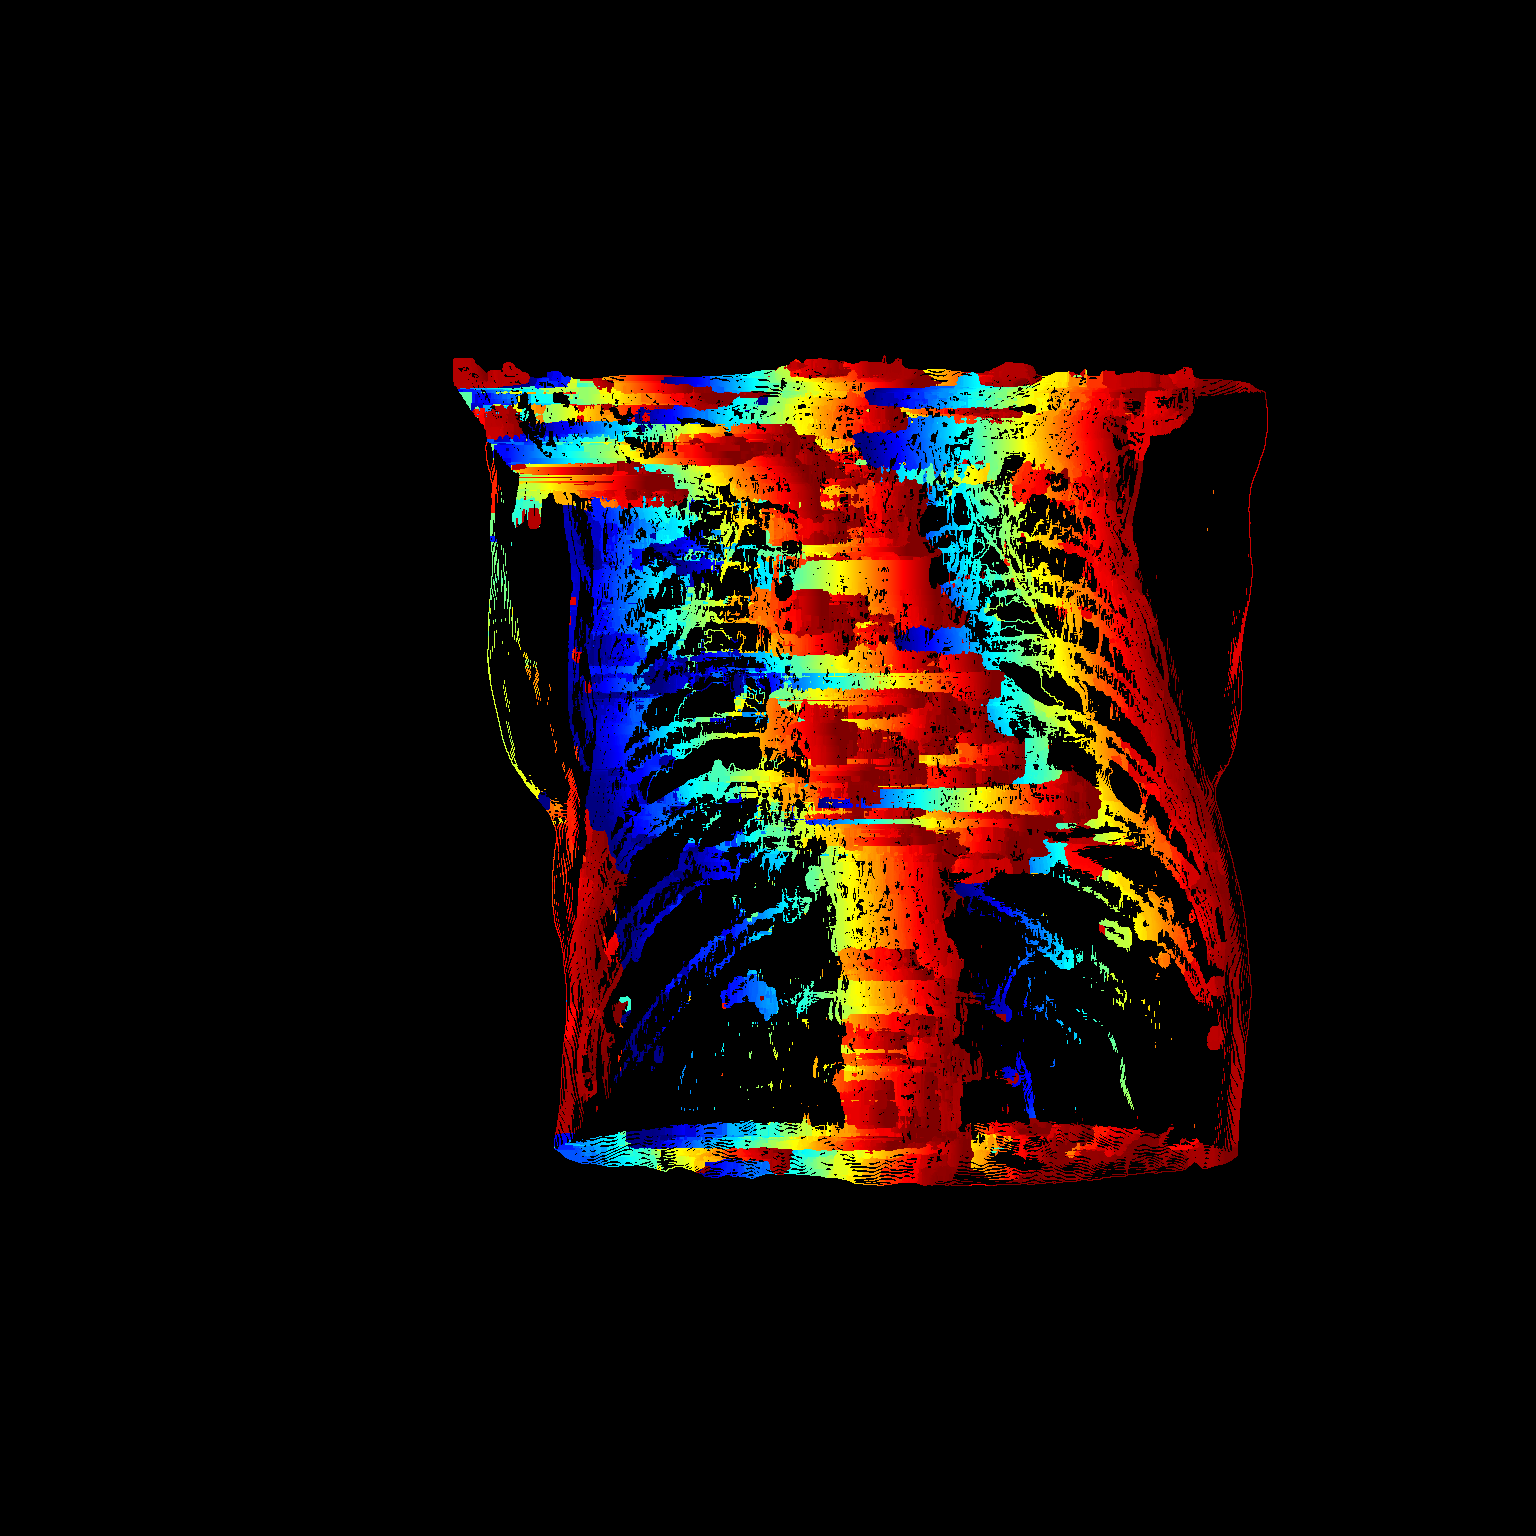
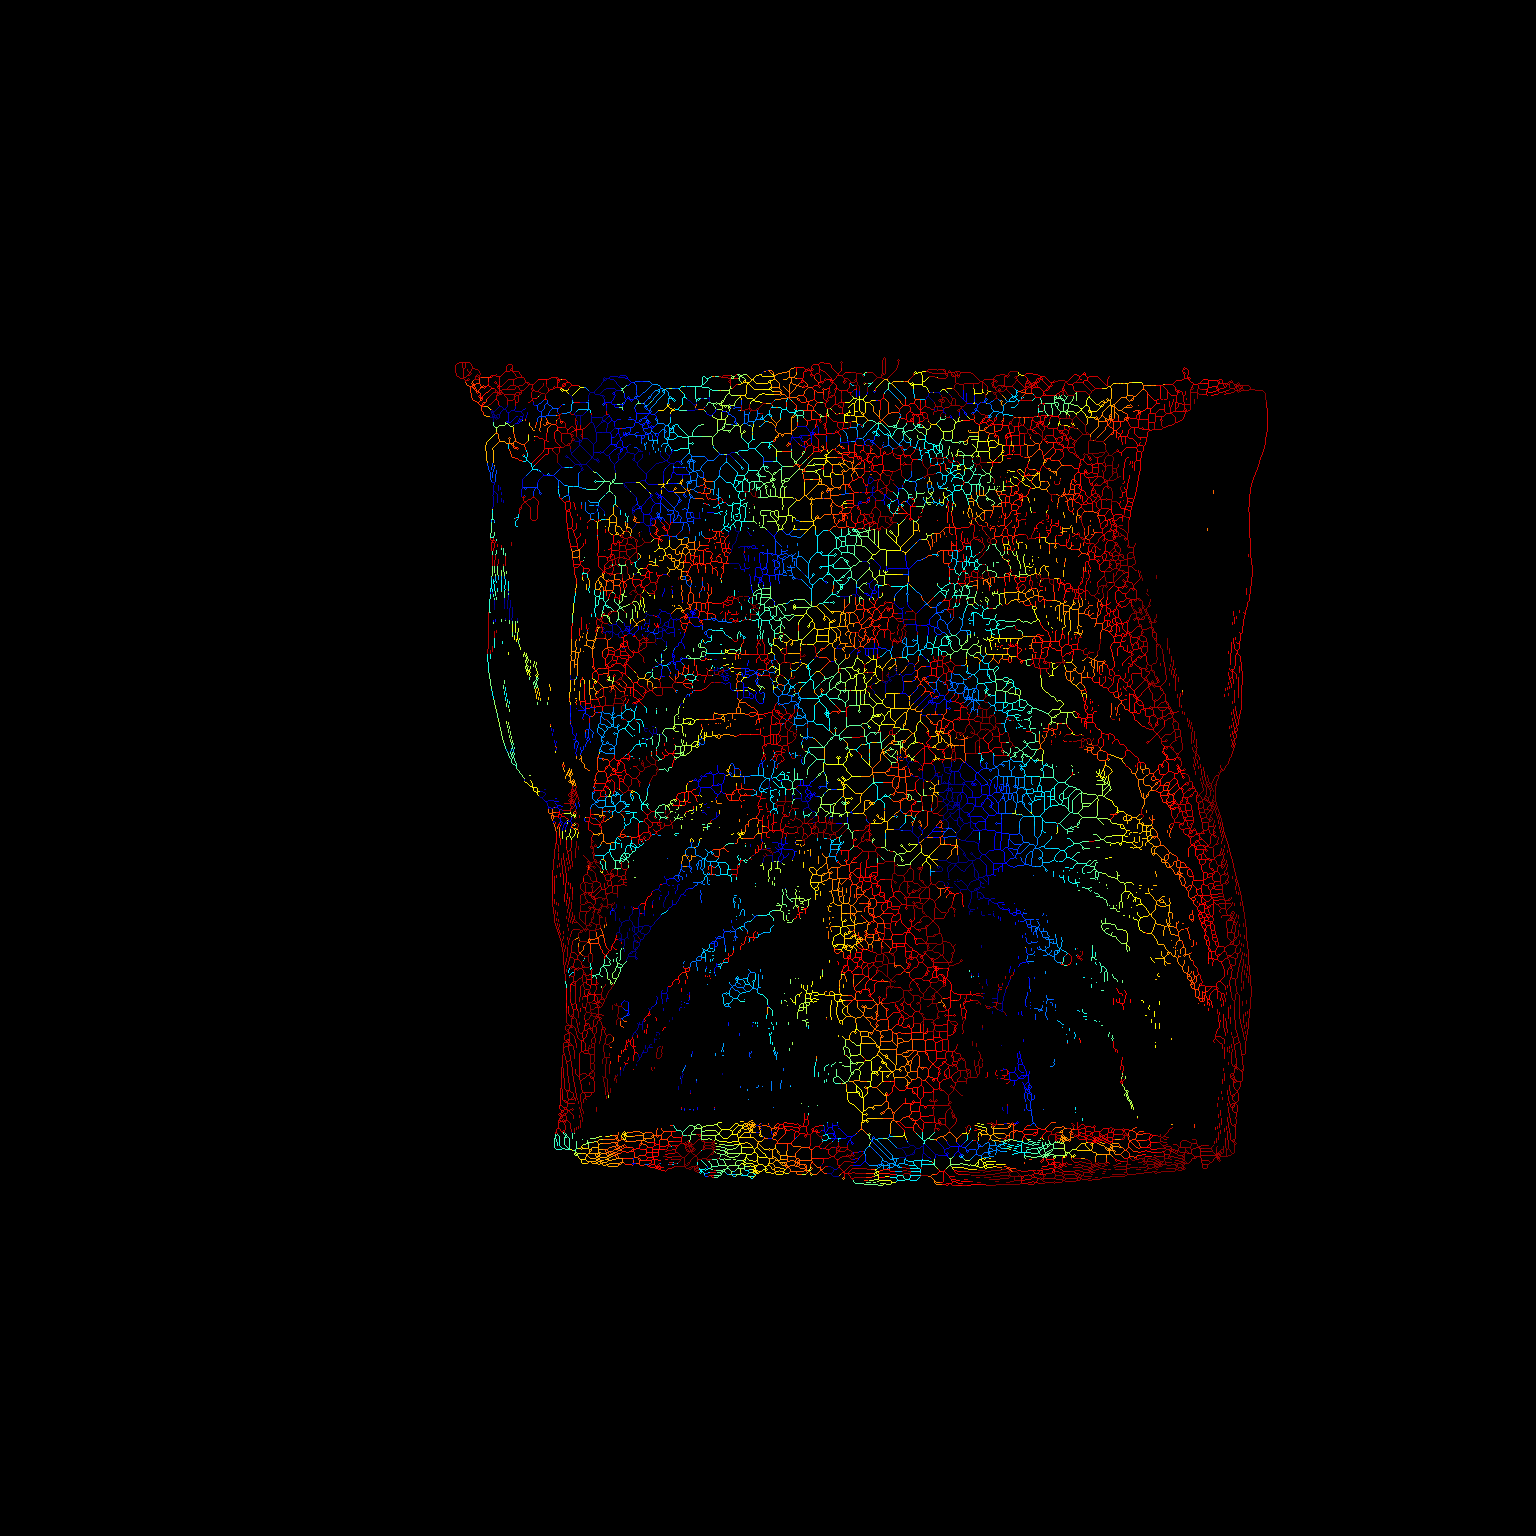
Optimize stereo matching performance
- Replace erosion-Canny with skimage.skeletonize for true 1-pixel skeleton
- Fix numeric overflow by casting smoothed images to float32
- Speed up block matching with cv2.matchTemplate
- Adjust ORB ratio test from 0.75 to 0.8 for better recall
- Fix SGM validity test to include zero disparity
- Remove duplicate benchmark summary

Performance improvements reduce Chamfer/SSD runtime significantly on M4 Max.

Changed region(s): [[0.2812, 0.2188, 0.8125, 0.7812]]

diff --git a/segment.py b/segment.py
@@ -5,6 +5,7 @@ import matplotlib
 import matplotlib.pyplot as plt
 import time
 from collections import OrderedDict, deque
+from skimage.morphology import skeletonize
 
 # Initialize benchmark tracking
 benchmark_times = OrderedDict()
@@ -39,6 +40,9 @@ benchmark_times['2. Normalization & Thresholding'] = time.time() - start_step
 start_step = time.time()
 left_smoothed = cv2.GaussianBlur(left_thresholded_uint8, (15, 15), 0)
 right_smoothed = cv2.GaussianBlur(right_thresholded_uint8, (15, 15), 0)
+# Cast to float32 to avoid overflow in region growing
+left_smoothed_float = left_smoothed.astype(np.float32)
+right_smoothed_float = right_smoothed.astype(np.float32)
 benchmark_times['3. Gaussian Blur'] = time.time() - start_step
 
 # 4. Find dark valleys between bright structures.
@@ -198,7 +202,7 @@ for seed_y, seed_x in left_seed_queue:
         continue  # already processed
     
     # Initialize flood fill for this seed
-    seed_intensity = left_smoothed[seed_y, seed_x]
+    seed_intensity = left_smoothed_float[seed_y, seed_x]
     growth_queue = deque([(seed_y, seed_x)])
     left_label_map[seed_y, seed_x] = left_current_label
     blob_area = 1
@@ -222,7 +226,7 @@ for seed_y, seed_x in left_seed_queue:
                     left_label_map[ny, nx] == 0):  # not yet labeled
                     
                     # Intensity constraint check
-                    neighbor_intensity = left_smoothed[ny, nx]
+                    neighbor_intensity = left_smoothed_float[ny, nx]
                     if abs(seed_intensity - neighbor_intensity) <= delta_I:
                         left_label_map[ny, nx] = left_current_label
                         growth_queue.append((ny, nx))
@@ -241,7 +245,7 @@ for seed_y, seed_x in right_seed_queue:
         continue  # already processed
     
     # Initialize flood fill for this seed
-    seed_intensity = right_smoothed[seed_y, seed_x]
+    seed_intensity = right_smoothed_float[seed_y, seed_x]
     growth_queue = deque([(seed_y, seed_x)])
     right_label_map[seed_y, seed_x] = right_current_label
     blob_area = 1
@@ -265,7 +269,7 @@ for seed_y, seed_x in right_seed_queue:
                     right_label_map[ny, nx] == 0):  # not yet labeled
                     
                     # Intensity constraint check
-                    neighbor_intensity = right_smoothed[ny, nx]
+                    neighbor_intensity = right_smoothed_float[ny, nx]
                     if abs(seed_intensity - neighbor_intensity) <= delta_I:
                         right_label_map[ny, nx] = right_current_label
                         growth_queue.append((ny, nx))
@@ -358,10 +362,6 @@ plt.show()
 
 # Print benchmark summary
 benchmark_times['13. Visualization'] = time.time() - visualization_start
-print("\n=== Benchmark Summary ===")
-for step, duration in benchmark_times.items():
-    print(f"{step}: {duration:.3f}s")
-print(f"Total time: {time.time() - start_total:.3f}s")
 
 # ============================================================
 # 14. Stereo Matching
@@ -371,29 +371,27 @@ print(f"Total time: {time.time() - start_total:.3f}s")
 min_disparity = 0       # never allow negative shift
 max_disparity = 256     # generous upper limit in pixels
 
-# 14.2 Build scan-line lookup for boundary pixels
+# 14.2 Thin boundaries to reduce computational load
 start_step = time.time()
 print("\n=== Stereo Matching ===")
 print(f"Disparity search range: {min_disparity} to {max_disparity} pixels")
 
-# Create lookup dictionary for epipolar search
-epipolar_lookup = {}
-for coord in left_gradient_coords:
-    y, x = coord
-    # For rectified images, corresponding points lie on same horizontal line
-    candidate_x = np.arange(x - max_disparity, x - min_disparity + 1)
-    candidate_x = candidate_x[(candidate_x >= 0) & (candidate_x < right_boundary_image.shape[1])]
-    if len(candidate_x) > 0:
-        epipolar_lookup[(y, x)] = candidate_x
+# Apply morphological skeletonization to get true 1-pixel skeleton
+left_skeleton = (skeletonize(left_boundary_image > 0) * 255).astype(np.uint8)
+right_skeleton = (skeletonize(right_boundary_image > 0) * 255).astype(np.uint8)
 
-print(f"Built epipolar lookup for {len(epipolar_lookup)} boundary pixels")
-benchmark_times['14.2 Epipolar Lookup'] = time.time() - start_step
+# Get thinned boundary coordinates
+left_thin_coords = np.column_stack(np.where(left_skeleton > 0))
+right_thin_coords = np.column_stack(np.where(right_skeleton > 0))
+
+print(f"Boundary thinning: {len(left_gradient_coords)} -> {len(left_thin_coords)} pixels")
+benchmark_times['14.2 Boundary Thinning'] = time.time() - start_step
 
 # Initialize unified disparity output
 disparity_output = np.full(left_image.shape, np.nan, dtype=np.float32)
 
 # Select matching algorithm
-selected_matching = 'chamfer'  # or 'block', 'sgm', 'sift'
+selected_matching = 'chamfer'  # or 'block', 'sgm', 'orb'
 print(f"\nSelected matching algorithm: {selected_matching}")
 
 # 14.3 Edge-based Chamfer along the line
@@ -401,55 +399,67 @@ if selected_matching == 'chamfer':
     start_step = time.time()
     print("\n14.3 Running Chamfer distance matching...")
     
-    # Compute distance transform for right boundary image once
+    # Compute distance transform for right skeleton once
     right_distance_transform = cv2.distanceTransform(
-        255 - right_boundary_image, cv2.DIST_L2, cv2.DIST_MASK_PRECISE
+        255 - right_skeleton, cv2.DIST_L2, cv2.DIST_MASK_PRECISE
     )
     
-    # Process each boundary pixel
+    # Process thinned boundary pixels
     chamfer_window_size = 31
     half_window = chamfer_window_size // 2
     matched_count = 0
     
-    for (y, x), candidate_xs in epipolar_lookup.items():
+    for coord in left_thin_coords:
+        y, x = coord
+        
+        # Skip pixels too close to image edges
+        if (y < half_window or y >= left_skeleton.shape[0] - half_window or
+            x < max_disparity or x >= left_skeleton.shape[1] - half_window):
+            continue
+        
         # Extract window around left boundary pixel
-        y_min = max(0, y - half_window)
-        y_max = min(left_boundary_image.shape[0], y + half_window + 1)
-        x_min = max(0, x - half_window)
-        x_max = min(left_boundary_image.shape[1], x + half_window + 1)
+        y_min = y - half_window
+        y_max = y + half_window + 1
+        x_min = x - half_window
+        x_max = x + half_window + 1
         
-        left_window = left_boundary_image[y_min:y_max, x_min:x_max]
+        left_window = left_skeleton[y_min:y_max, x_min:x_max]
         
-        # Find best match along epipolar line
-        best_score = float('inf')
-        best_disparity = 0
+        if np.sum(left_window) == 0:  # skip empty windows
+            continue
         
-        for right_x in candidate_xs:
-            # Extract corresponding window from right distance transform
-            right_x_min = max(0, right_x - half_window)
-            right_x_max = min(right_distance_transform.shape[1], right_x + half_window + 1)
-            
-            # Handle window size mismatch at image borders
-            if (right_x_max - right_x_min) != (x_max - x_min):
-                continue
-            if (y_max - y_min) != left_window.shape[0]:
-                continue
-                
-            right_dt_window = right_distance_transform[y_min:y_max, right_x_min:right_x_max]
-            
-            # Compute Chamfer score: sum of distances where left has boundaries
-            score = np.sum(right_dt_window[left_window > 0])
-            
-            if score < best_score:
-                best_score = score
-                best_disparity = x - right_x
+        # Vectorized disparity search
+        # Create disparity range
+        disparities = np.arange(min_disparity, min(max_disparity + 1, x + 1))
+        right_xs = x - disparities
+        
+        # Extract all candidate windows at once using advanced indexing
+        valid_mask = (right_xs >= half_window) & (right_xs < right_distance_transform.shape[1] - half_window)
+        valid_disparities = disparities[valid_mask]
+        valid_right_xs = right_xs[valid_mask]
+        
+        if len(valid_disparities) == 0:
+            continue
+        
+        # Compute scores for all valid positions
+        scores = np.zeros(len(valid_disparities))
+        left_mask = left_window > 0
+        
+        for i, rx in enumerate(valid_right_xs):
+            right_dt_window = right_distance_transform[y_min:y_max, rx - half_window:rx + half_window + 1]
+            scores[i] = np.sum(right_dt_window[left_mask])
+        
+        # Find best match
+        best_idx = np.argmin(scores)
+        best_score = scores[best_idx]
+        best_disparity = valid_disparities[best_idx]
         
         # Store disparity if match was good enough
-        if best_score < chamfer_window_size * chamfer_window_size * 10:  # threshold
+        if best_score < np.sum(left_window > 0) * 5:  # adaptive threshold
             disparity_output[y, x] = best_disparity
             matched_count += 1
     
-    print(f"Chamfer matching: {matched_count}/{len(epipolar_lookup)} pixels matched")
+    print(f"Chamfer matching: {matched_count}/{len(left_thin_coords)} pixels matched")
     benchmark_times['14.3 Chamfer Matching'] = time.time() - start_step
 
 # 14.4 Block matching (dense SSD)
@@ -462,45 +472,50 @@ elif selected_matching == 'block':
     half_block = block_size // 2
     matched_count = 0
     
-    for (y, x), candidate_xs in epipolar_lookup.items():
-        # Extract block around left pixel
-        y_min = max(0, y - half_block)
-        y_max = min(left_image.shape[0], y + half_block + 1)
-        x_min = max(0, x - half_block)
-        x_max = min(left_image.shape[1], x + half_block + 1)
+    # Convert images to float32 once
+    left_float = left_image.astype(np.float32)
+    right_float = right_image.astype(np.float32)
+    
+    for coord in left_thin_coords:
+        y, x = coord
         
-        left_block = left_image[y_min:y_max, x_min:x_max].astype(np.float32)
+        # Skip pixels too close to image edges
+        if (y < half_block or y >= left_image.shape[0] - half_block or
+            x < max_disparity or x >= left_image.shape[1] - half_block):
+            continue
         
-        # Find best match along epipolar line
-        best_ssd = float('inf')
-        best_disparity = 0
+        # Extract template block around left pixel
+        template = left_float[y - half_block:y + half_block + 1, 
+                             x - half_block:x + half_block + 1]
         
-        for right_x in candidate_xs:
-            # Extract corresponding block from right image
-            right_x_min = max(0, right_x - half_block)
-            right_x_max = min(right_image.shape[1], right_x + half_block + 1)
+        # Define search region in right image
+        search_x_min = max(0, x - max_disparity - half_block)
+        search_x_max = min(right_image.shape[1] - block_size + 1, x - min_disparity + half_block + 1)
+        
+        if search_x_max <= search_x_min:
+            continue
             
-            # Handle window size mismatch at image borders
-            if (right_x_max - right_x_min) != (x_max - x_min):
-                continue
-            if (y_max - y_min) != left_block.shape[0]:
-                continue
-                
-            right_block = right_image[y_min:y_max, right_x_min:right_x_max].astype(np.float32)
-            
-            # Compute sum of squared differences
-            ssd = np.sum((left_block - right_block) ** 2)
-            
-            if ssd < best_ssd:
-                best_ssd = ssd
-                best_disparity = x - right_x
+        # Extract search region
+        search_region = right_float[y - half_block:y + half_block + 1,
+                                   search_x_min:search_x_max + block_size - 1]
         
-        # Store disparity if match was good enough
-        if best_ssd < block_size * block_size * 1000:  # threshold
-            disparity_output[y, x] = best_disparity
+        # Use matchTemplate for fast SSD computation
+        result = cv2.matchTemplate(search_region, template, cv2.TM_SQDIFF)
+        
+        # Find minimum (best match)
+        min_val, _, min_loc, _ = cv2.minMaxLoc(result)
+        
+        # Convert back to disparity
+        matched_x = search_x_min + min_loc[0] + half_block
+        disparity = x - matched_x
+        
+        # Store disparity if match was good enough and within valid range
+        if (min_val < block_size * block_size * 500 and 
+            min_disparity <= disparity <= max_disparity):
+            disparity_output[y, x] = disparity
             matched_count += 1
     
-    print(f"Block matching: {matched_count}/{len(epipolar_lookup)} pixels matched")
+    print(f"Block matching: {matched_count}/{len(left_thin_coords)} pixels matched")
     benchmark_times['14.4 Block Matching'] = time.time() - start_step
 
 # 14.5 Semi-Global Matching (SGM)
@@ -525,33 +540,38 @@ elif selected_matching == 'sgm':
     disparity_sgm = sgbm.compute(left_image, right_image).astype(np.float32) / 16.0
     
     # Mask to keep only boundary pixels
+    # Note: Invalid disparities in OpenCV SGBM are marked as (minDisparity - 1)
+    invalid_disparity = sgbm.getMinDisparity() - 1
     matched_count = 0
-    for coord in left_gradient_coords:
+    
+    for coord in left_thin_coords:
         y, x = coord
-        if disparity_sgm[y, x] > 0:  # valid disparity
-            disparity_output[y, x] = disparity_sgm[y, x]
+        disp_value = disparity_sgm[y, x]
+        if disp_value != invalid_disparity and disp_value >= min_disparity:  # valid disparity
+            disparity_output[y, x] = disp_value
             matched_count += 1
     
-    print(f"SGM matching: {matched_count}/{len(left_gradient_coords)} boundary pixels have valid disparities")
+    print(f"SGM matching: {matched_count}/{len(left_thin_coords)} boundary pixels have valid disparities")
     benchmark_times['14.5 SGM'] = time.time() - start_step
 
 # 14.6 Sparse feature (SIFT/ORB) fallback
-elif selected_matching == 'sift':
+elif selected_matching == 'orb':
     start_step = time.time()
-    print("\n14.6 Running SIFT feature matching...")
+    print("\n14.6 Running ORB feature matching...")
     
-    # Create SIFT detector
-    sift = cv2.SIFT_create()
+    # Create ORB detector (always available in OpenCV)
+    orb = cv2.ORB_create(nfeatures=5000, scaleFactor=1.2, nlevels=8)
     
-    # Detect keypoints on gradient images (where edges are)
-    kp_left, desc_left = sift.detectAndCompute(left_gradient_normalized, None)
-    kp_right, desc_right = sift.detectAndCompute(right_gradient_normalized, None)
+    # Detect keypoints on rectified images for better texture
+    kp_left, desc_left = orb.detectAndCompute(left_image, None)
+    kp_right, desc_right = orb.detectAndCompute(right_image, None)
     
     print(f"Detected keypoints - left: {len(kp_left)}, right: {len(kp_right)}")
     
     # Match descriptors
     if desc_left is not None and desc_right is not None:
-        bf = cv2.BFMatcher()
+        # Use Hamming distance for ORB binary descriptors
+        bf = cv2.BFMatcher(cv2.NORM_HAMMING, crossCheck=False)
         matches = bf.knnMatch(desc_left, desc_right, k=2)
         
         # Apply Lowe's ratio test
@@ -559,7 +579,7 @@ elif selected_matching == 'sift':
         for match_pair in matches:
             if len(match_pair) == 2:
                 m, n = match_pair
-                if m.distance < 0.75 * n.distance:
+                if m.distance < 0.8 * n.distance:
                     good_matches.append(m)
         
         print(f"Good matches after ratio test: {len(good_matches)}")
@@ -588,8 +608,10 @@ elif selected_matching == 'sift':
                     disparity_output[y_left, x_left] = disparity
                     matched_count += 1
     
-    print(f"SIFT matching: {matched_count} boundary pixels matched")
-    benchmark_times['14.6 SIFT Matching'] = time.time() - start_step
+        print(f"ORB matching: {matched_count} boundary pixels matched")
+    else:
+        print("ORB matching: No descriptors found")
+    benchmark_times['14.6 ORB Matching'] = time.time() - start_step
 
 # 14.7 Save disparity visualization
 start_step = time.time()
